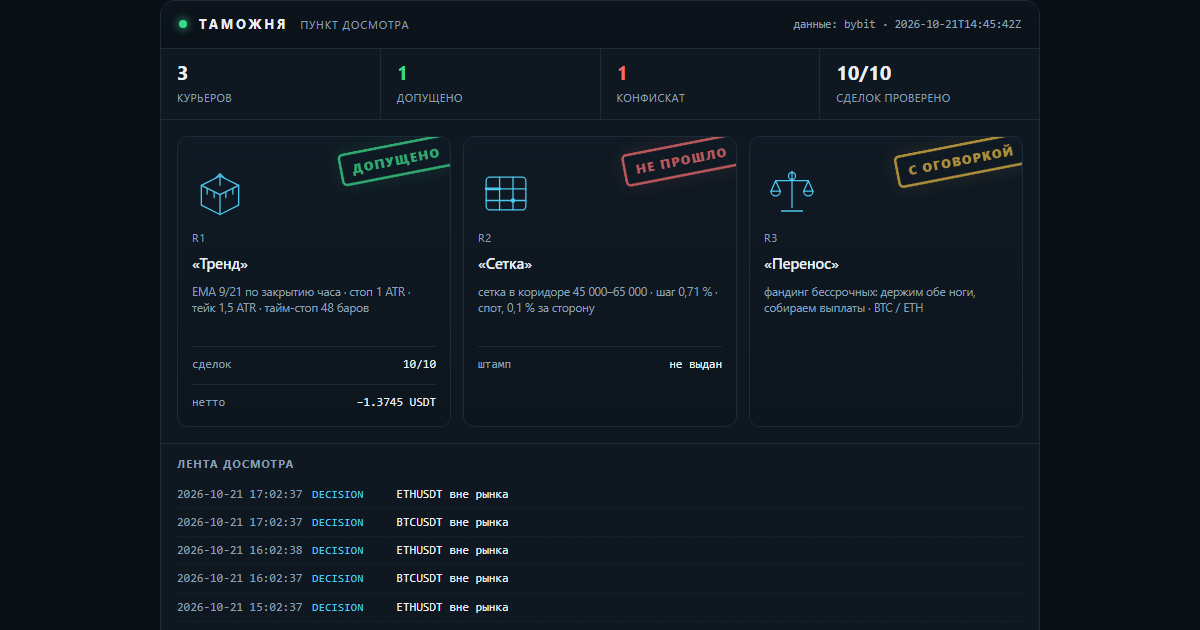
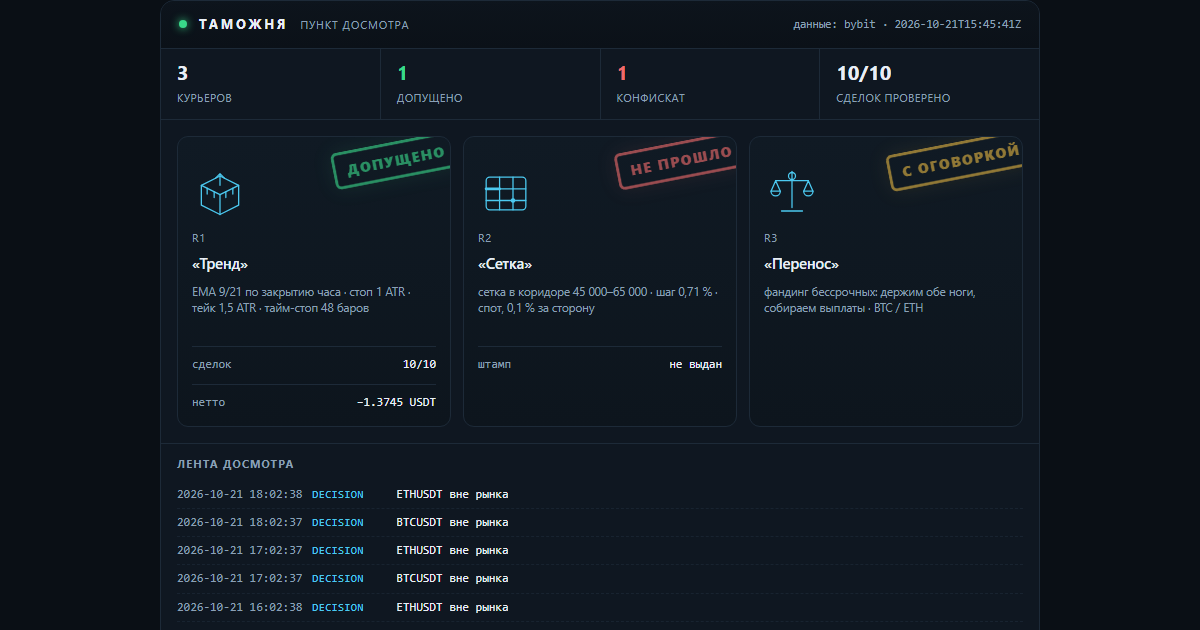
lab: таможня — свежие числа досмотра

Changed region(s): [[0.74, 0.2111, 0.8633, 0.3016], [0.4933, 0.2111, 0.6167, 0.3016], [0.2775, 0.2111, 0.37, 0.3016]]

diff --git a/docs/customs.html b/docs/customs.html
@@ -16,7 +16,7 @@
   <h1><a href="index.html">Gramwright Lab</a></h1>
   <p>Журнал проверки торговых гипотез: что проверяли, что вышло по факту, сколько съели издержки. Числа берутся из журнала стенда. Не инвестиционная рекомендация.</p>
 </header>
-<h1>Таможня</h1><p class="intro">Пункт досмотра заявленных результатов. Стратегии приезжают с грузом обещаний, и каждая проходит проверку по публичным данным биржи: цены существуют, комиссии по тарифу, нетто сходится. Что прошло — получает штамп. Что не прошло — в конфискат, с причиной. Штамп означает «записи подлинные», а не «стратегия прибыльна».</p><p><img src="img/customs.png" alt="Терминал досмотра: три курьера, штампы, лента событий" style="width:100%;height:auto;border:1px solid var(--line);border-radius:10px"></p><p class="c-note">Сверху — тот же терминал, что собирается из журналов: счётчики, эмблемы курьеров, штампы и лента последних событий. Ниже — то же самое текстом, чтобы читалось с телефона и индексировалось поиском.</p><article><h2>R1 «Тренд» <span class="verdict">— <span class="c-ok">допущено</span></span></h2><p><strong>Правило:</strong> EMA 9/21 по закрытию часа · стоп 1 ATR · тейк 1,5 ATR · тайм-стоп 48 баров</p><p><strong>Декларация:</strong> Заявлено до прогона: держать 30 сделок, лимит нотионала 10 % от счёта, стоп дня −1 %. Прибыль не заявлялась — это важно: курьер не обещал доход.</p><p><strong>Проверено по публичным свечам, без ключей:</strong> 10 из 10 сделок. Сумма нетто −1.3745 USDT.</p><ul class="c-chk"><li class="y">BTCUSDT: нетто −0.8746 USDT · комиссии 0.0901 · проверено · с поправкой</li><li class="y">BTCUSDT: нетто −0.5441 USDT · комиссии 0.0896 · проверено</li><li class="y">ETHUSDT: нетто −0.2253 USDT · комиссии 0.0266 · проверено</li><li class="y">ETHUSDT: нетто −0.1513 USDT · комиссии 0.0265 · проверено</li><li class="y">ETHUSDT: нетто +0.1984 USDT · комиссии 0.0262 · проверено</li><li class="y">ETHUSDT: нетто +0.1617 USDT · комиссии 0.0260 · проверено</li><li class="y">ETHUSDT: нетто +0.2645 USDT · комиссии 0.0263 · проверено</li><li class="y">BTCUSDT: нетто +0.6246 USDT · комиссии 0.0897 · проверено</li><li class="y">BTCUSDT: нетто −0.5881 USDT · комиссии 0.0910 · проверено</li><li class="y">ETHUSDT: нетто −0.2403 USDT · комиссии 0.0270 · проверено</li></ul><p class="tags">журнал sha256 d00a9764941a6fe3… · проверяльщик verify-1</p><p class="c-note">Штамп означает: записи подлинные, а не что стратегия прибыльна. Курьер в минусе, и минус тоже стоит на штампе — иначе это была бы не проверка, а реклама.</p><p class="tags">источник: verify-report.json</p></article><article><h2>R2 «Сетка» <span class="verdict">— <span class="c-bad">не прошло</span></span></h2><p><strong>Правило:</strong> сетка в коридоре 45 000–65 000 · шаг 0,71 % · спот, 0,1 % за сторону</p><p><strong>Декларация:</strong> Заявлено: «44 % урожая уходит бирже в виде комиссий». Кроме того — перевес над простым владением монетой.</p><p><strong>Что сошлось:</strong></p><ul class="c-chk"><li class="y">сами числа пересчитаны и воспроизводятся: коридор 45–65k был активен 23 % всей истории и 28 % последних двух лет</li></ul><p><strong>Что не сошлось:</strong></p><ul class="c-chk"><li class="n">44 % не подтвердилось: при шаге 0,71 % и тарифе 0,1 % комиссия съедает 28,3 % шага. Чтобы получить 44 %, нужен шаг 0,45 % — это около 80 уровней, а не 50</li><li class="n">от урожая доля комиссий 85,5 % за всю историю и 49,6 % за последние два года — тоже не 44 %</li><li class="n">перевес над владением посчитан на тарифе 0,055 %: при нём +1,32 п. п., на розничном 0,1 % — −0,72 п. п. То есть перевес исчезает</li><li class="n">семилетний тест стартовал в сентябре 2019 при биткоине около 10 000 — ниже коридора. Он говорит, что фиксированный коридор не подходит для периода, а не что сетка отстаёт</li></ul><p class="tags">источник: lab_grid.py, пересчёт 17.10.2026</p></article><article><h2>R3 «Перенос» <span class="verdict">— <span class="c-warn">с оговоркой</span></span></h2><p><strong>Правило:</strong> фандинг бессрочных: держим обе ноги, собираем выплаты · BTC / ETH</p><p><strong>Декларация:</strong> Заявлено: около 11,9 % в год от выплат фандинга при просадке выплатной кривой меньше 2 %.</p><p><strong>Что сошлось:</strong></p><ul class="c-chk"><li class="y">выплаты взяты из публичной истории биржи, ключей не нужно: BTC — 7 190 выплат с 25.03.2020, ETH — 6 561 с 21.10.2020</li><li class="y">сумма сходится: +83,4 % и +83,2 % за 6,6 и 6,0 года — те самые ~11,9 % в год</li><li class="y">худшая просадка выплатной кривой: −1,65 % и −1,97 %</li></ul><p><strong>Что не сошлось:</strong></p><ul class="c-chk"><li class="n">оговорка 1: премию сжали — 2021 год дал +38,3 %, 2026 — +1,96 %. Прошлое не повторяется</li><li class="n">оговорка 2: вход-выход стоит около 0,31 %, капитала нужно 1,2 от нотионала, текущий базис −0,082 % против входа</li><li class="n">оговорка 3: риск площадки. История FTX в этой же таблице выглядела так же прилично</li></ul><p class="tags">источник: публичная история фандинга Bybit, замер 17.10.2026</p></article><div class="c-conf"><h3>Конфискат</h3><p><strong>«Сетка»: заявленные 44 % комиссий не подтвердились.</strong> Досмотр показал 28,3 % от шага и 85,5 % от урожая — цифра хуже заявленной по форме, но лучше по смыслу: сетку убивает не размер шага, а то, что урожай почти весь уходит в комиссии. Это и вышло в выпуск — с поправкой, а не с красивой цифрой.</p></div><p class="c-note">Пломба: <code>2026-10-21T14:45:42Z</code> · нотариус FreeTSA · Oct 21 14:45:41 2026 GMT · подпись подтверждена. Манифест скрепляет отчёт проверки, журнал сделок и декларации курьеров: подменишь любую цифру — пломба перестанет сходиться.</p><p class="c-note">Досмотр идёт по публичным минутным свечам и публичной истории фандинга — ключей у проверяющего нет, и он может повторить проверку сам.</p><p class="c-note">Контент образовательный, не является инвестиционной рекомендацией. Торговля связана с риском потери капитала.</p>
+<h1>Таможня</h1><p class="intro">Пункт досмотра заявленных результатов. Стратегии приезжают с грузом обещаний, и каждая проходит проверку по публичным данным биржи: цены существуют, комиссии по тарифу, нетто сходится. Что прошло — получает штамп. Что не прошло — в конфискат, с причиной. Штамп означает «записи подлинные», а не «стратегия прибыльна».</p><p><img src="img/customs.png" alt="Терминал досмотра: три курьера, штампы, лента событий" style="width:100%;height:auto;border:1px solid var(--line);border-radius:10px"></p><p class="c-note">Сверху — тот же терминал, что собирается из журналов: счётчики, эмблемы курьеров, штампы и лента последних событий. Ниже — то же самое текстом, чтобы читалось с телефона и индексировалось поиском.</p><article><h2>R1 «Тренд» <span class="verdict">— <span class="c-ok">допущено</span></span></h2><p><strong>Правило:</strong> EMA 9/21 по закрытию часа · стоп 1 ATR · тейк 1,5 ATR · тайм-стоп 48 баров</p><p><strong>Декларация:</strong> Заявлено до прогона: держать 30 сделок, лимит нотионала 10 % от счёта, стоп дня −1 %. Прибыль не заявлялась — это важно: курьер не обещал доход.</p><p><strong>Проверено по публичным свечам, без ключей:</strong> 10 из 10 сделок. Сумма нетто −1.3745 USDT.</p><ul class="c-chk"><li class="y">BTCUSDT: нетто −0.8746 USDT · комиссии 0.0901 · проверено · с поправкой</li><li class="y">BTCUSDT: нетто −0.5441 USDT · комиссии 0.0896 · проверено</li><li class="y">ETHUSDT: нетто −0.2253 USDT · комиссии 0.0266 · проверено</li><li class="y">ETHUSDT: нетто −0.1513 USDT · комиссии 0.0265 · проверено</li><li class="y">ETHUSDT: нетто +0.1984 USDT · комиссии 0.0262 · проверено</li><li class="y">ETHUSDT: нетто +0.1617 USDT · комиссии 0.0260 · проверено</li><li class="y">ETHUSDT: нетто +0.2645 USDT · комиссии 0.0263 · проверено</li><li class="y">BTCUSDT: нетто +0.6246 USDT · комиссии 0.0897 · проверено</li><li class="y">BTCUSDT: нетто −0.5881 USDT · комиссии 0.0910 · проверено</li><li class="y">ETHUSDT: нетто −0.2403 USDT · комиссии 0.0270 · проверено</li></ul><p class="tags">журнал sha256 3ca9e5845f1ee4a4… · проверяльщик verify-1</p><p class="c-note">Штамп означает: записи подлинные, а не что стратегия прибыльна. Курьер в минусе, и минус тоже стоит на штампе — иначе это была бы не проверка, а реклама.</p><p class="tags">источник: verify-report.json</p></article><article><h2>R2 «Сетка» <span class="verdict">— <span class="c-bad">не прошло</span></span></h2><p><strong>Правило:</strong> сетка в коридоре 45 000–65 000 · шаг 0,71 % · спот, 0,1 % за сторону</p><p><strong>Декларация:</strong> Заявлено: «44 % урожая уходит бирже в виде комиссий». Кроме того — перевес над простым владением монетой.</p><p><strong>Что сошлось:</strong></p><ul class="c-chk"><li class="y">сами числа пересчитаны и воспроизводятся: коридор 45–65k был активен 23 % всей истории и 28 % последних двух лет</li></ul><p><strong>Что не сошлось:</strong></p><ul class="c-chk"><li class="n">44 % не подтвердилось: при шаге 0,71 % и тарифе 0,1 % комиссия съедает 28,3 % шага. Чтобы получить 44 %, нужен шаг 0,45 % — это около 80 уровней, а не 50</li><li class="n">от урожая доля комиссий 85,5 % за всю историю и 49,6 % за последние два года — тоже не 44 %</li><li class="n">перевес над владением посчитан на тарифе 0,055 %: при нём +1,32 п. п., на розничном 0,1 % — −0,72 п. п. То есть перевес исчезает</li><li class="n">семилетний тест стартовал в сентябре 2019 при биткоине около 10 000 — ниже коридора. Он говорит, что фиксированный коридор не подходит для периода, а не что сетка отстаёт</li></ul><p class="tags">источник: lab_grid.py, пересчёт 17.10.2026</p></article><article><h2>R3 «Перенос» <span class="verdict">— <span class="c-warn">с оговоркой</span></span></h2><p><strong>Правило:</strong> фандинг бессрочных: держим обе ноги, собираем выплаты · BTC / ETH</p><p><strong>Декларация:</strong> Заявлено: около 11,9 % в год от выплат фандинга при просадке выплатной кривой меньше 2 %.</p><p><strong>Что сошлось:</strong></p><ul class="c-chk"><li class="y">выплаты взяты из публичной истории биржи, ключей не нужно: BTC — 7 190 выплат с 25.03.2020, ETH — 6 561 с 21.10.2020</li><li class="y">сумма сходится: +83,4 % и +83,2 % за 6,6 и 6,0 года — те самые ~11,9 % в год</li><li class="y">худшая просадка выплатной кривой: −1,65 % и −1,97 %</li></ul><p><strong>Что не сошлось:</strong></p><ul class="c-chk"><li class="n">оговорка 1: премию сжали — 2021 год дал +38,3 %, 2026 — +1,96 %. Прошлое не повторяется</li><li class="n">оговорка 2: вход-выход стоит около 0,31 %, капитала нужно 1,2 от нотионала, текущий базис −0,082 % против входа</li><li class="n">оговорка 3: риск площадки. История FTX в этой же таблице выглядела так же прилично</li></ul><p class="tags">источник: публичная история фандинга Bybit, замер 17.10.2026</p></article><div class="c-conf"><h3>Конфискат</h3><p><strong>«Сетка»: заявленные 44 % комиссий не подтвердились.</strong> Досмотр показал 28,3 % от шага и 85,5 % от урожая — цифра хуже заявленной по форме, но лучше по смыслу: сетку убивает не размер шага, а то, что урожай почти весь уходит в комиссии. Это и вышло в выпуск — с поправкой, а не с красивой цифрой.</p></div><p class="c-note">Пломба: <code>2026-10-21T15:45:41Z</code> · нотариус FreeTSA · Oct 21 15:45:41 2026 GMT · подпись подтверждена. Манифест скрепляет отчёт проверки, журнал сделок и декларации курьеров: подменишь любую цифру — пломба перестанет сходиться.</p><p class="c-note">Досмотр идёт по публичным минутным свечам и публичной истории фандинга — ключей у проверяющего нет, и он может повторить проверку сам.</p><p class="c-note">Контент образовательный, не является инвестиционной рекомендацией. Торговля связана с риском потери капитала.</p>
 <footer class="site">
   Код стенда и аудитора: <a href="https://github.com/XSlaidx/truth-engine">XSlaidx/truth-engine</a>
   &middot; <a href="graveyard.html">кладбище правил</a>
